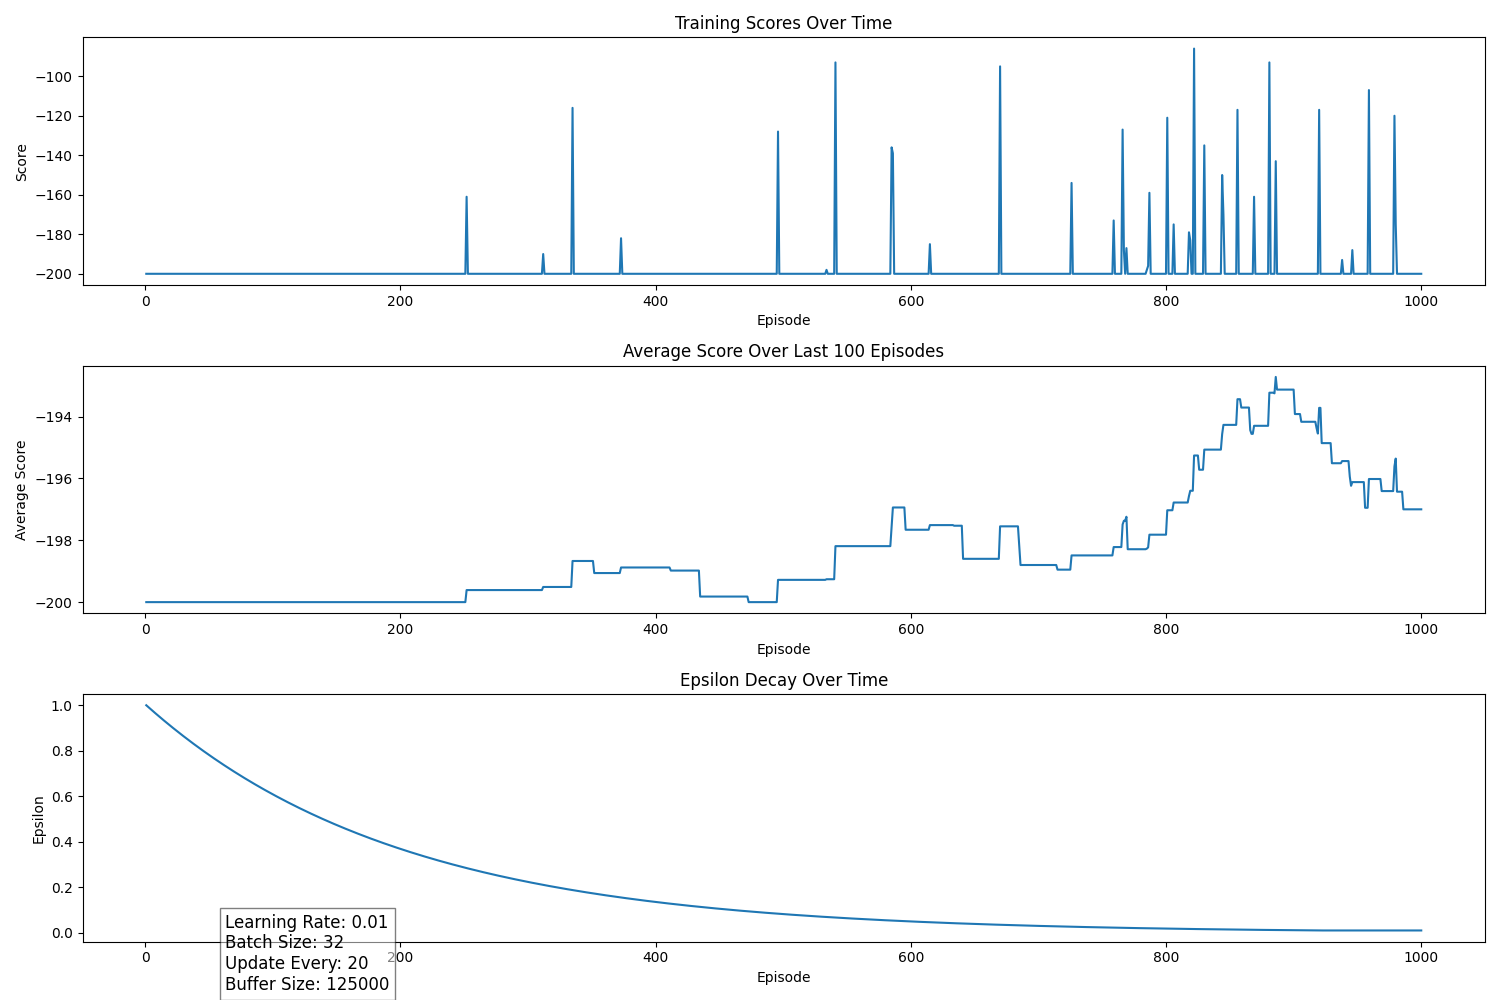
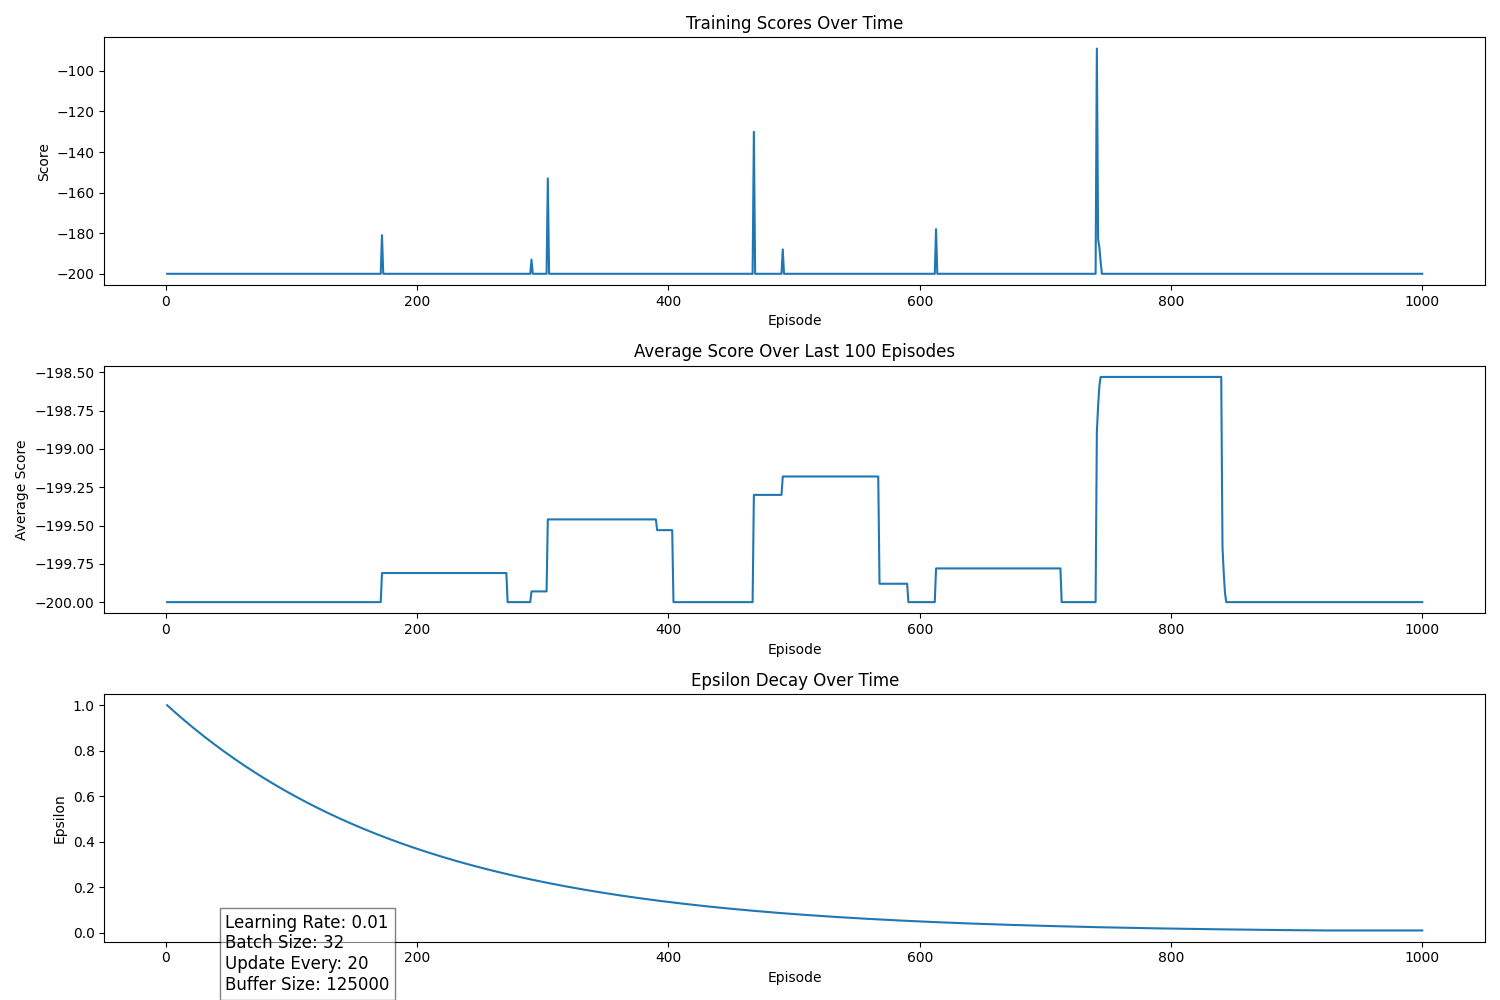
changed parameters. Maybe change reward system?

diff --git a/DQN/dqn_agent.py b/DQN/dqn_agent.py
@@ -10,8 +10,6 @@ device = torch.device("cuda:0" if torch.cuda.is_available() else "cpu")
 
 class DQNAgent:
     def __init__(self, state_size, action_size, seed, eps_start, eps_end, eps_decay, buffer_size=int(1e5), batch_size=64, gamma=0.99, lr=0.001, tau=0.005, update_every=4, size=128):
-
-        # Environment info and seed
         self.state_size = state_size
         self.action_size = action_size
         self.seed = random.seed(seed)
@@ -40,13 +38,11 @@ class DQNAgent:
         self.eps_end = eps_end  # Minimum epsilon value
         self.eps_decay = eps_decay  # Decay rate for epsilon
 
-
-    # Method that determines what the agent will do next.
     def step(self, state, action, reward, next_state, done):
         # Add Info to Memory
         self.memory.append((state, action, reward, next_state, done))
         
-        # Updates the Step Counter
+        # Update the Step Counter
         self.t_step = (self.t_step + 1) % self.update_every
         if self.t_step == 0:
             if len(self.memory) > self.batch_size:
@@ -60,25 +56,18 @@ class DQNAgent:
         state = torch.from_numpy(state).float().unsqueeze(0).to(device)
         # Set the network to evaluation mode (important for accurate predictions)
         self.qnetwork_local.eval()
-
-        # Get action values from the local network without updating the network
         with torch.no_grad():
             action_values = self.qnetwork_local(state)
-
         # Set the network back to training mode (to resume learning later)
         self.qnetwork_local.train()
         
-
-        # TODO: Change like FrozenLake?
-        # Choose the action with the highest value
+        # Choose the action with the highest value or explore
         if random.random() > self.eps:
             return np.argmax(action_values.cpu().data.numpy())
         else:
-            # Otherwise, explore by selecting a random action
             return random.choice(np.arange(self.action_size))
     
     def learn(self, experiences, gamma):
-        # Unpack the batch of experiences
         states, actions, rewards, next_states, dones = experiences
 
         # Get the maximum predicted Q-values for the next states from the target model
@@ -90,20 +79,16 @@ class DQNAgent:
         Q_expected = self.qnetwork_local(states).gather(1, actions)
 
         # Compute the loss (mean squared error between expected and target Q-values)
-        loss = F.mse_loss(Q_expected, Q_targets)
-        # Zero the gradients
+        loss = F.mse_loss(Q_expected, Q_targets)  # Consider using F.smooth_l1_loss for stability
         self.optimizer.zero_grad()
-        # Perform backpropagation
         loss.backward()
-        # Update the weights
         self.optimizer.step()
 
         # Soft update the target network
         self.soft_update(self.qnetwork_local, self.qnetwork_target, self.tau)
 
     def soft_update(self, local_model, target_model, tau):
-        # Soft update model parameters:
-        # θ_target = τ*θ_local + (1 - τ)*θ_target
+        # Soft update model parameters: θ_target = τ*θ_local + (1 - τ)*θ_target
         for target_param, local_param in zip(target_model.parameters(), local_model.parameters()):
             target_param.data.copy_(tau * local_param.data + (1.0 - tau) * target_param.data)
 

diff --git a/DQN/mountainCar.py b/DQN/mountainCar.py
@@ -10,20 +10,21 @@ device = torch.device("cuda:0" if torch.cuda.is_available() else "cpu")
 env = gym.make("MountainCar-v0")
 
 # Define settings
-learning_rate = 0.01
-batch_size = 32
-update_every = 20
+learning_rate = 0.001
+batch_size = 64
+update_every = 5
 network_size = 64
 buffer_size = 125000
-eps_start = 1.0
+eps_start = 1
 eps_end = 0.01
 eps_decay = 0.995
+gamma = 0.96
 
 state_size = env.observation_space.shape[0]
 action_size = env.action_space.n
 seed = 0
 
-agent = DQNAgent(state_size=state_size, action_size=action_size, seed=seed, eps_start=eps_start, eps_end=eps_end, eps_decay=eps_decay, buffer_size=buffer_size, update_every=update_every, size=network_size, lr=learning_rate, batch_size=batch_size)
+agent = DQNAgent(state_size=state_size, action_size=action_size, gamma=gamma, seed=seed, eps_start=eps_start, eps_end=eps_end, eps_decay=eps_decay, buffer_size=buffer_size, update_every=update_every, size=network_size, lr=learning_rate, batch_size=batch_size)
 
 n_episodes = 1000
 max_t = 200
@@ -88,7 +89,7 @@ plt.ylabel('Epsilon')
 plt.title('Epsilon Decay Over Time')
 
 # Add settings to the plot
-plt.figtext(0.15, 0.01, f'Learning Rate: {learning_rate}\nBatch Size: {batch_size}\nUpdate Every: {update_every}\nBuffer Size: {buffer_size}', fontsize=12, bbox=dict(facecolor='white', alpha=0.5))
+plt.figtext(0.15, 0.01, f'Learning Rate: {learning_rate}\nBatch Size: {batch_size}\nUpdate Every: {update_every}\nBuffer Size: {buffer_size}\ngamma: {gamma}', fontsize=12, bbox=dict(facecolor='white', alpha=0.5))
 
 plt.tight_layout()
 

diff --git a/DQN/trained.py b/DQN/trained.py
@@ -9,13 +9,21 @@ device = torch.device("cpu")
 
 env = gym.make("MountainCar-v0", render_mode="human")
 
-
+# Define settings
+learning_rate = 0.01
+batch_size = 64
+update_every = 10
+network_size = 64
+eps_start = 1.0
+eps_end = 0.01
+eps_decay = 0.995
+gamma = 0.9
 
 state_size = env.observation_space.shape[0]
 action_size = env.action_space.n
 seed = 0
 
-agent = DQNAgent(state_size=state_size, action_size=action_size, seed=seed, size=64)
+agent = DQNAgent(state_size=state_size, action_size=action_size, gamma=gamma, seed=seed, eps_start=eps_start, eps_end=eps_end, eps_decay=eps_decay, update_every=update_every, size=network_size, lr=learning_rate, batch_size=batch_size)
 
 # Load the trained model
 agent.qnetwork_local.load_state_dict(torch.load('checkpoints/mCar_checkpoint.pth', map_location=device))
